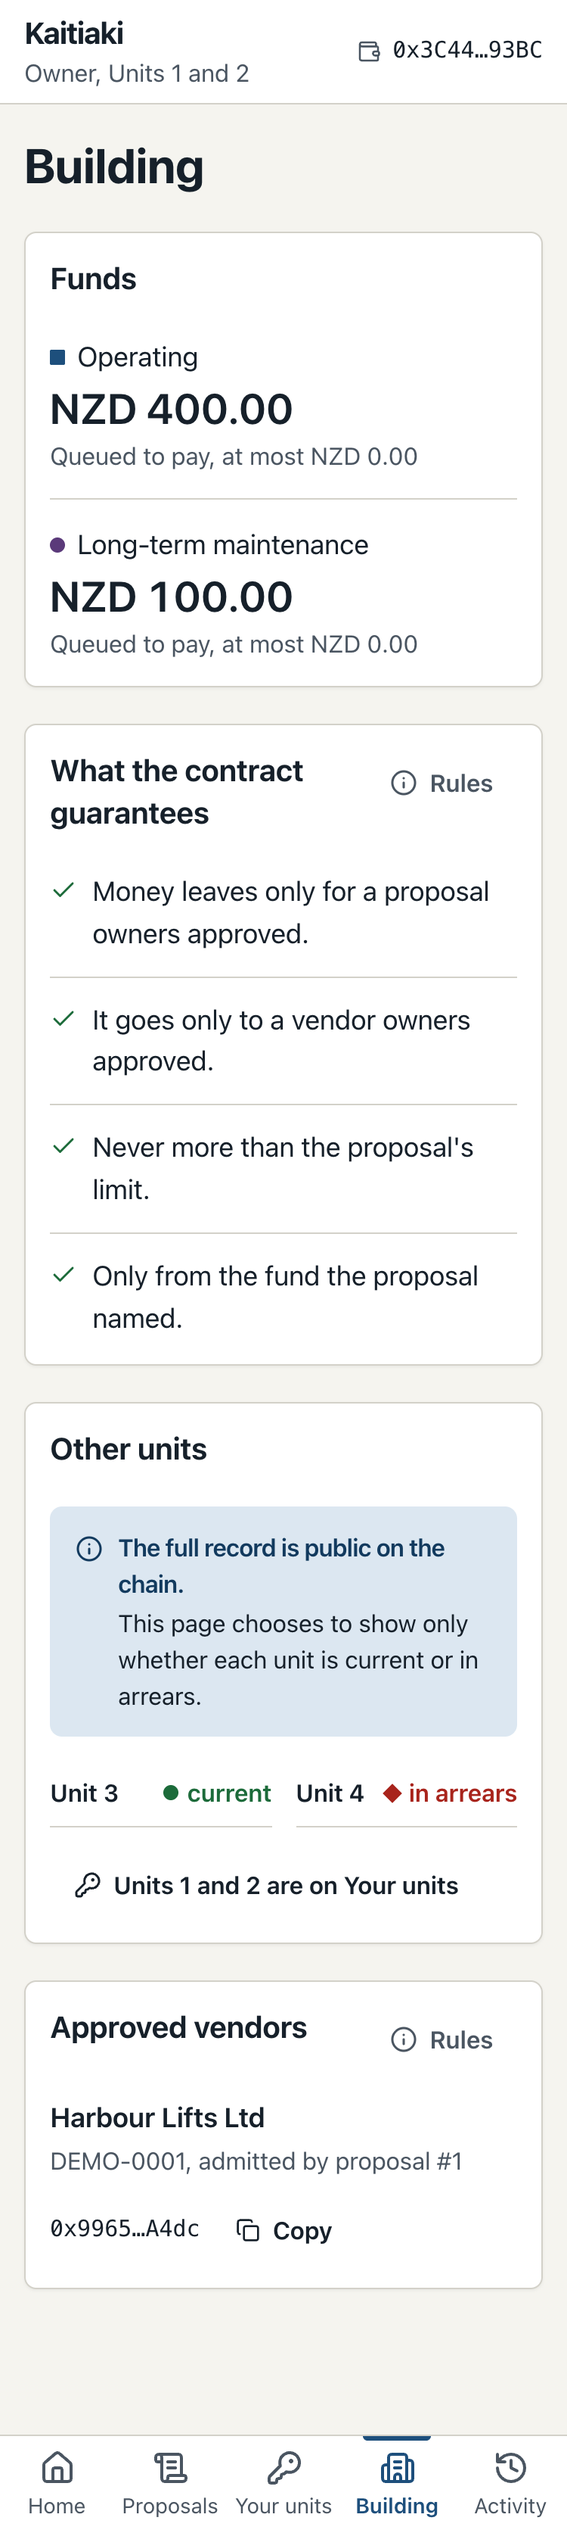
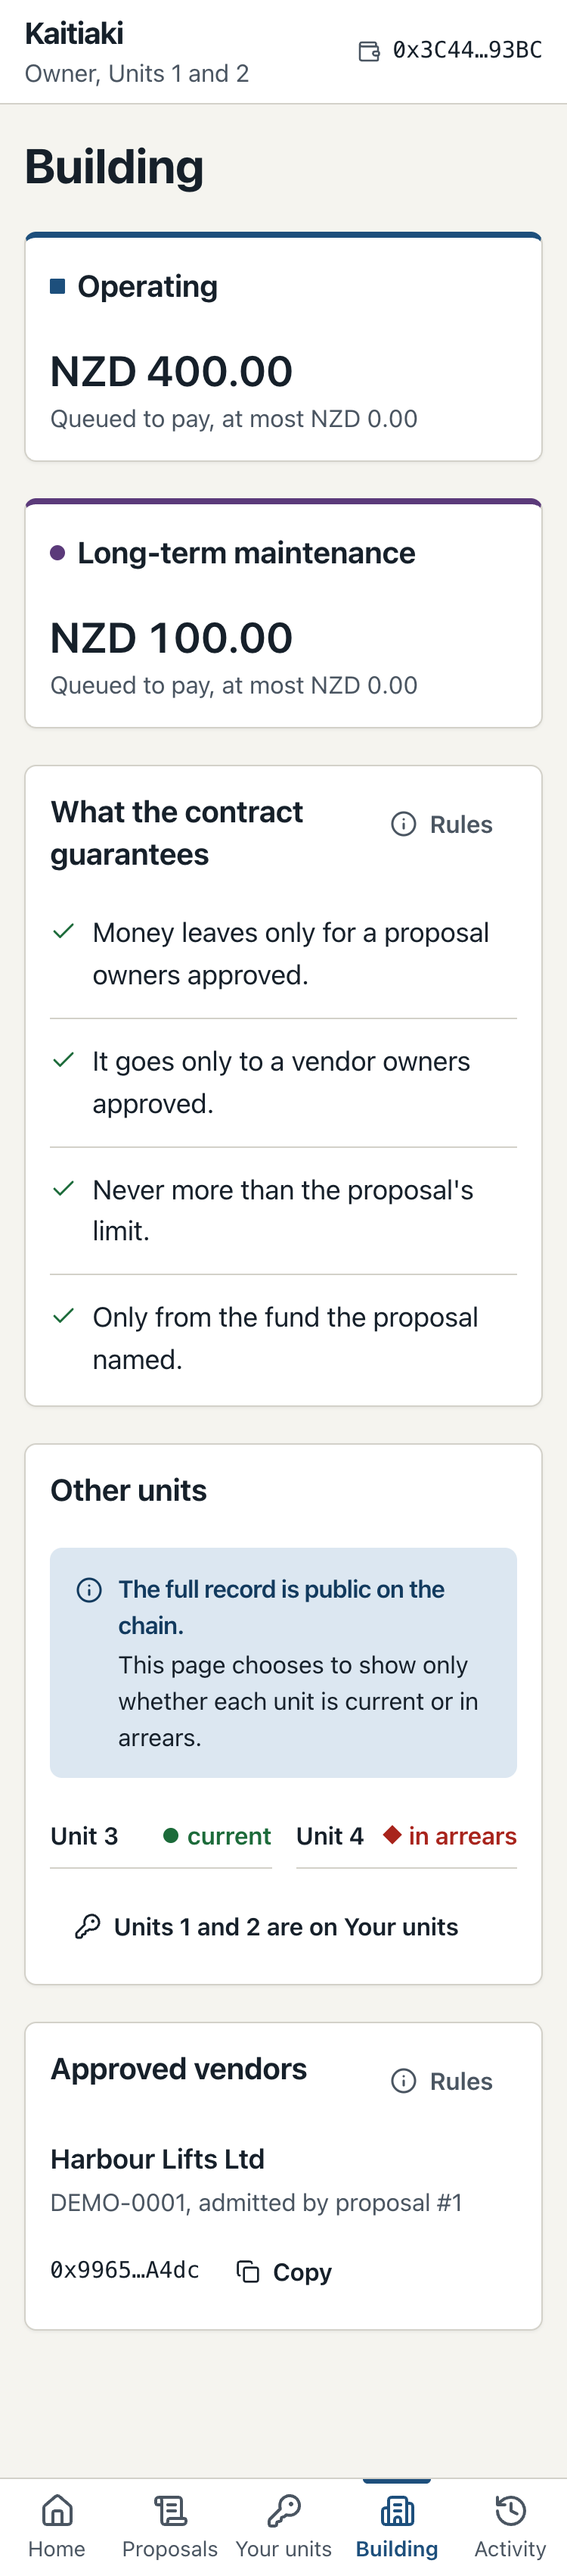
#180 Show the two funds as two FundCards side by side, with the guarantees below them

diff --git a/interface/src/screens/building.tsx b/interface/src/screens/building.tsx
@@ -7,11 +7,23 @@
 // is `data-arrears`, with nothing else in the row beyond the unit's name.
 import { Check, Info, KeyRound } from "lucide-react";
 
-import { Address, Fund, FUND_NAMES, RulesPopover } from "../components/kaitiaki.js";
+import {
+  Address,
+  Fund,
+  FUND_NAMES,
+  RulesPopover,
+} from "../components/kaitiaki.js";
 import { Alert, AlertDescription, AlertTitle } from "../components/ui/alert.js";
 import { Button } from "../components/ui/button.js";
-import { Card, CardAction, CardContent, CardHeader } from "../components/ui/card.js";
+import {
+  Card,
+  CardAction,
+  CardContent,
+  CardHeader,
+  CardTitle,
+} from "../components/ui/card.js";
 import { nzd, unitsLabel } from "../format.js";
+import { cn } from "../lib/utils.js";
 import type { View } from "../view.js";
 import { Heading } from "./home.js";
 
@@ -32,7 +44,8 @@ export const VENDOR_RULES = [
   "No vendor can be removed.",
 ] as const;
 
-const rows = "flex flex-col [&>li]:border-t [&>li]:py-3.5 [&>li:first-child]:border-t-0 [&>li:first-child]:pt-0 [&>li:last-child]:pb-0";
+const rows =
+  "flex flex-col [&>li]:border-t [&>li]:py-3.5 [&>li:first-child]:border-t-0 [&>li:first-child]:pt-0 [&>li:last-child]:pb-0";
 
 export function Building({
   funds,
@@ -51,56 +64,74 @@ export function Building({
   return (
     <>
       <h1>Building</h1>
+      {/* FundCard: one card per fund, side by side, never summed. */}
       <div className="grid items-start gap-6 wide:grid-cols-2">
-        <Card role="region" aria-labelledby="h-funds">
-          <CardHeader>
-            <Heading id="h-funds">Funds</Heading>
-          </CardHeader>
-          {/* FundCard: the two funds side by side, never summed. */}
-          <CardContent className="grid gap-4 wide:grid-cols-2 max-wide:[&>div+div]:border-t max-wide:[&>div+div]:pt-4">
-            {[
-              [funds.operating, queued.operating],
-              [funds.maintenance, queued.maintenance],
-            ].map(([balance, cap], i) => (
-              <div key={FUND_NAMES[i]} data-fund={i ? "ltm" : "op"} className="flex flex-col gap-0.5">
-                <Fund fund={BigInt(i)} />
-                <span className="text-[1.75rem] leading-tight font-semibold tabular-nums">
-                  {nzd(balance)}
+        {[
+          [funds.operating, queued.operating],
+          [funds.maintenance, queued.maintenance],
+        ].map(([balance, cap], i) => (
+          <Card
+            key={FUND_NAMES[i]}
+            role="region"
+            aria-labelledby={`h-fund-${i}`}
+            data-fund={i ? "ltm" : "op"}
+            className={cn(
+              "border-t-4",
+              i ? "border-t-fund-ltm" : "border-t-fund-operating",
+            )}
+          >
+            <CardHeader>
+              <CardTitle>
+                <h2 id={`h-fund-${i}`} className="text-xl">
+                  <Fund fund={BigInt(i)} />
+                </h2>
+              </CardTitle>
+            </CardHeader>
+            <CardContent className="flex flex-col gap-0.5">
+              <span className="text-[1.75rem] leading-tight font-semibold tabular-nums">
+                {nzd(balance)}
+              </span>
+              <span className="text-base text-muted-foreground">
+                Queued to pay, at most{" "}
+                <span className="whitespace-nowrap tabular-nums">
+                  {nzd(cap)}
                 </span>
-                <span className="text-base text-muted-foreground">
-                  Queued to pay, at most{" "}
-                  <span className="whitespace-nowrap tabular-nums">{nzd(cap)}</span>
-                </span>
-              </div>
-            ))}
-          </CardContent>
-        </Card>
-        <Card role="region" aria-labelledby="h-guarantees">
-          <CardHeader>
-            <Heading id="h-guarantees">What the contract guarantees</Heading>
-            <CardAction>
-              <RulesPopover rules={GUARANTEE_RULES} />
-            </CardAction>
-          </CardHeader>
-          <CardContent>
-            <ul className={rows}>
-              {GUARANTEES.map((g) => (
-                <li key={g} className="flex gap-2.5">
-                  <Check aria-hidden="true" className="mt-1 size-[18px] flex-none text-success" />
-                  {g}
-                </li>
-              ))}
-            </ul>
-          </CardContent>
-        </Card>
+              </span>
+            </CardContent>
+          </Card>
+        ))}
       </div>
+      <Card role="region" aria-labelledby="h-guarantees">
+        <CardHeader>
+          <Heading id="h-guarantees">What the contract guarantees</Heading>
+          <CardAction>
+            <RulesPopover rules={GUARANTEE_RULES} />
+          </CardAction>
+        </CardHeader>
+        <CardContent>
+          <ul className={rows}>
+            {GUARANTEES.map((g) => (
+              <li key={g} className="flex gap-2.5">
+                <Check
+                  aria-hidden="true"
+                  className="mt-1 size-[18px] flex-none text-success"
+                />
+                {g}
+              </li>
+            ))}
+          </ul>
+        </CardContent>
+      </Card>
       <Card role="region" aria-labelledby="h-units">
         <CardHeader>
           <Heading id="h-units">Other units</Heading>
         </CardHeader>
         <CardContent className="flex flex-col items-start gap-4">
           {/* The disclosure line: always visible beside the register. */}
-          <Alert role="note" className="border-transparent bg-accent text-accent-foreground">
+          <Alert
+            role="note"
+            className="border-transparent bg-accent text-accent-foreground"
+          >
             <Info aria-hidden="true" />
             <AlertTitle>The full record is public on the chain.</AlertTitle>
             <AlertDescription className="text-foreground">
@@ -115,7 +146,9 @@ export function Building({
             >
               {otherUnits.map((u) => (
                 <li key={String(u.unitId)} data-other-unit="">
-                  <span className="unit font-semibold whitespace-nowrap tabular-nums">Unit {String(u.unitId)}</span>
+                  <span className="unit font-semibold whitespace-nowrap tabular-nums">
+                    Unit {String(u.unitId)}
+                  </span>
                   <span
                     className="status inline-flex items-center gap-1.5 border-0 bg-transparent p-0 text-base font-semibold"
                     data-tone={u.status === "current" ? "ok" : "late"}
@@ -127,7 +160,9 @@ export function Building({
               ))}
             </ul>
           ) : (
-            <p className="text-muted-foreground">No other unit is in the building.</p>
+            <p className="text-muted-foreground">
+              No other unit is in the building.
+            </p>
           )}
           <Button variant="ghost" asChild>
             <a href="#/units" className="text-foreground no-underline">
@@ -155,7 +190,8 @@ export function Building({
                   <span className="flex flex-col gap-0.5">
                     <span className="font-semibold">{v.name}</span>
                     <span className="text-base text-muted-foreground">
-                      {v.companyId}, admitted by proposal #{String(v.proposalId)}
+                      {v.companyId}, admitted by proposal #
+                      {String(v.proposalId)}
                     </span>
                   </span>
                   <Address value={v.payee} label={`Copy ${v.name}'s address`} />

diff --git a/test/interface.ts b/test/interface.ts
@@ -97,9 +97,13 @@ const navs = (html: string) =>
 const PRIVACY_LINE =
   "The full record is public on the chain. This page chooses to show only whether each unit is current or in arrears.";
 
-// Building's two funds, each as the words a viewer reads.
+// Building's two FundCards, each as the words a viewer reads, from its
+// `data-fund` to the next card.
 const fundCards = (html: string) =>
-  [...html.matchAll(/<div data-fund="(?:op|ltm)"[^>]*>([\s\S]*?)<\/div>/g)].map(([, f]) => text(f));
+  html
+    .split(/data-fund="(?:op|ltm)"/)
+    .slice(1)
+    .map((card) => text(card.split('<div data-slot="card"')[0].replace(/^[^>]*>/, "")));
 
 // The rows for units other than the viewer's own, as rendered text. React
 // writes an empty attribute as `=""`.

diff --git a/evidence/README.md b/evidence/README.md
@@ -472,7 +472,7 @@ The owner's Building screen beside its mock-ups, [`Building`](https://github.com
 
 | File | What it shows | Reproduce with |
 | --- | --- | --- |
-| `180-building-bob-1440.png` | **NFR10, information view R4, FR8, FR40, FR13, FR15, ADR-005.** Building as bob: Funds, Operating NZD 400.00 and Long-term maintenance NZD 100.00 side by side, each with its marker and "Queued to pay, at most NZD 0.00" (FR8, FR40). What the contract guarantees, four lines and Rules. Other units: the disclosure line in an Alert, then units 1, 2 and 4 as `Unit N` and one word, `current` or `in arrears`, with no amount or date (NFR10), and "Unit 3 is on Your units". Approved vendors: Harbour Lifts Ltd, DEMO-0001, admitted by proposal #1, its shortened address and Copy, and Rules (FR13, FR15) | `npm run demo`, then `node scripts/screenshot.mjs evidence/week6/180-building-bob-1440.png 'http://localhost:5173/?as=<bob>#/building'` |
-| `180-building-bob-375.png` | The same at 375 px: one column, the funds stacked, the register in two columns, the BottomBar | The same, with `evidence/week6/180-building-bob-375.png` and a trailing `375` |
+| `180-building-bob-1440.png` | **NFR10, information view R4, FR8, FR40, FR13, FR15, ADR-005.** Building as bob: two FundCards side by side, Operating NZD 400.00 and Long-term maintenance NZD 100.00, each with its marker, its colour on the top edge and "Queued to pay, at most NZD 0.00" (FR8, FR40). Below them, What the contract guarantees, four lines and Rules. Other units: the disclosure line in an Alert, then units 1, 2 and 4 as `Unit N` and one word, `current` or `in arrears`, with no amount or date (NFR10), and "Unit 3 is on Your units". Approved vendors: Harbour Lifts Ltd, DEMO-0001, admitted by proposal #1, its shortened address and Copy, and Rules (FR13, FR15) | `npm run demo`, then `node scripts/screenshot.mjs evidence/week6/180-building-bob-1440.png 'http://localhost:5173/?as=<bob>#/building'` |
+| `180-building-bob-375.png` | The same at 375 px: one column, the two FundCards stacked, the register in two columns, the BottomBar | The same, with `evidence/week6/180-building-bob-375.png` and a trailing `375` |
 | `180-building-alice-1440.png` | **NFR10.** Building as alice: units 3 and 4 only, unit 4 in arrears, and "Units 1 and 2 are on Your units" | `npm run demo`, then `node scripts/screenshot.mjs evidence/week6/180-building-alice-1440.png 'http://localhost:5173/?as=<alice>#/building'` |
 | `180-building-alice-375.png` | The same at 375 px | The same, with `evidence/week6/180-building-alice-375.png` and a trailing `375` |
